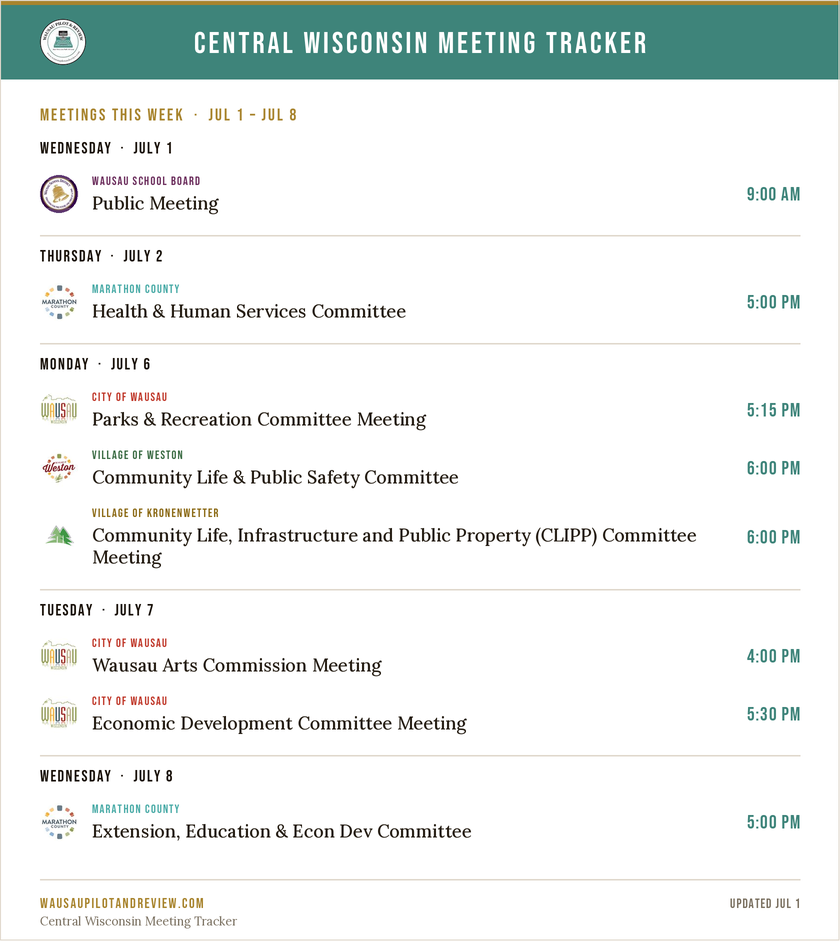
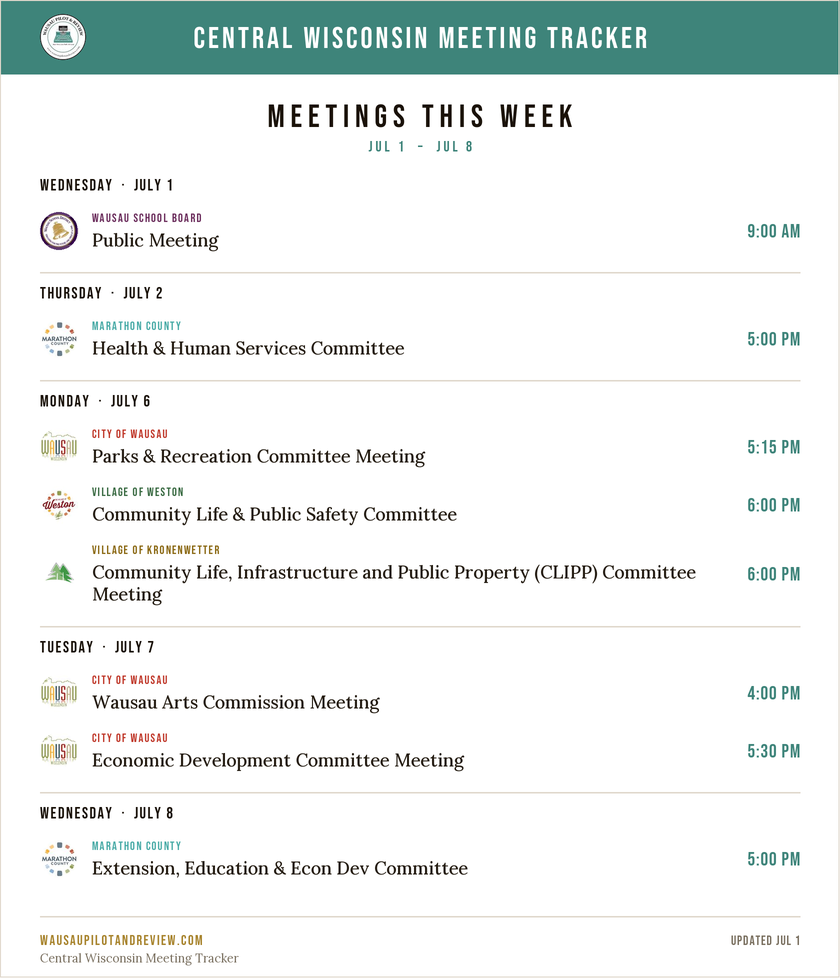
style(digest): drop gold top rule; center + enlarge 'Meetings This Week' title
Per newsletter feedback: remove the thin gold bar at the very top (teal band
is now flush to the top), and make the section title black, bold, bigger,
centered, and widely tracked, with the date range centered beneath it.

diff --git a/generate_digest.py b/generate_digest.py
@@ -163,9 +163,9 @@ def render(today, days=7, out="digest.png"):
     week = load_week(today, days)
 
     # -- layout constants ------------------------------------------------------
-    TOP_RULE   = 5
+    TOP_RULE   = 0       # (no gold top rule)
     HEADER_H   = 74
-    SECTION_H  = 46
+    SECTION_H  = 88      # centered title + date range, with breathing room
     DAY_H      = 40
     FOOTER_H   = 62
     GROUP_GAP  = 10
@@ -200,30 +200,37 @@ def render(today, days=7, out="digest.png"):
     def rect(x0, y0, x1, y1, fill):
         d.rectangle([x0 * SCALE, y0 * SCALE, x1 * SCALE, y1 * SCALE], fill=fill)
 
-    # -- gold top rule + header band ------------------------------------------
-    rect(0, 0, WIDTH, TOP_RULE, GOLD)
-    rect(0, TOP_RULE, WIDTH, TOP_RULE + HEADER_H, TEAL_DK)
+    # -- header band (teal, full-width; no top rule) --------------------------
+    rect(0, 0, WIDTH, HEADER_H, TEAL_DK)
 
     # WPR logo (left) in the band
-    band_cy = TOP_RULE + HEADER_H / 2
+    band_cy = HEADER_H / 2
     logo_d = 46
     logo = _circle_avatar(PUBLIC_DIR / "wpr-logo.jpg", logo_d)
     img.paste(logo, (int(MARGIN * SCALE), int((band_cy - logo_d / 2) * SCALE)), logo)
 
-    # centered title
+    # centered wordmark title
     title = "CENTRAL WISCONSIN MEETING TRACKER"
     tf = bebas(30)
     tw = _text_w(d, title, tf, tracking=3)
     _tracked_text(d, ((WIDTH - tw) / 2, band_cy - 16), title, tf, WHITE, tracking=3)
 
-    # -- section label: date range --------------------------------------------
-    y = TOP_RULE + HEADER_H + 26
-    start_lbl = today.strftime("%b %-d") if os.name != "nt" else today.strftime("%b %d").replace(" 0", " ")
+    # -- section header (centered): bold black title + date range -------------
+    start_lbl = today.strftime("%b %d").replace(" 0", " ")
     end_d = week[-1][0] if week else today + timedelta(days=days)
     end_lbl = end_d.strftime("%b %d").replace(" 0", " ")
-    section = f"MEETINGS THIS WEEK  ·  {start_lbl.upper()} – {end_lbl.upper()}"
-    _tracked_text(d, (MARGIN, y), section, bebas(17), GOLD, tracking=2)
-    y = TOP_RULE + HEADER_H + SECTION_H
+
+    t1 = "MEETINGS THIS WEEK"
+    f1 = bebas(32)
+    w1 = _text_w(d, t1, f1, tracking=6)
+    _tracked_text(d, ((WIDTH - w1) / 2, HEADER_H + 24), t1, f1, INK, tracking=6)
+
+    t2 = f"{start_lbl.upper()}  –  {end_lbl.upper()}"
+    f2 = bebas(15)
+    w2 = _text_w(d, t2, f2, tracking=3)
+    _tracked_text(d, ((WIDTH - w2) / 2, HEADER_H + 64), t2, f2, TEAL_DK, tracking=3)
+
+    y = HEADER_H + SECTION_H
 
     # -- day groups ------------------------------------------------------------
     if not week: